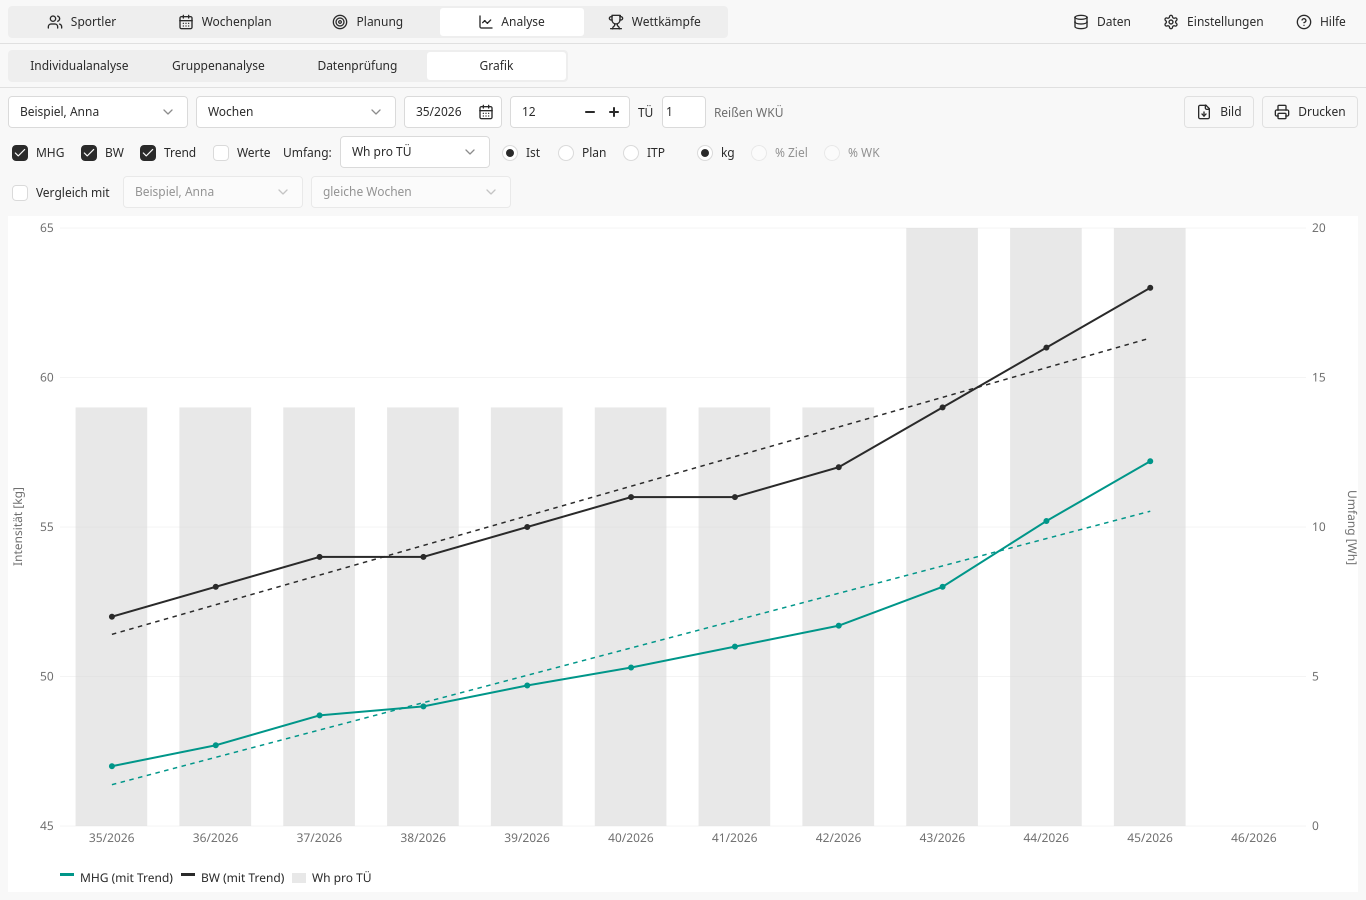
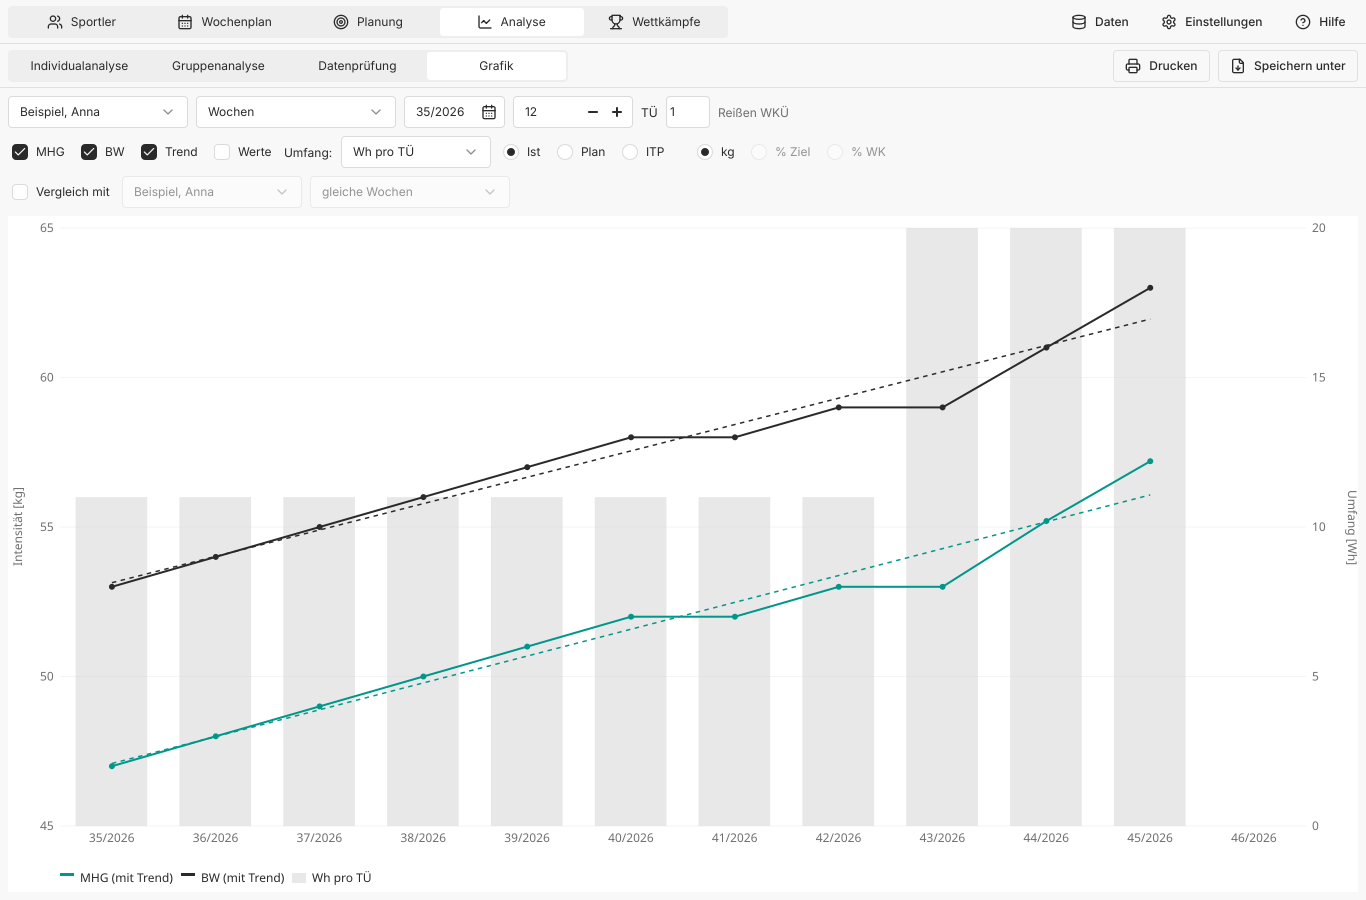
Describe what changed since 0.3.0; new screenshots
The README, the website and the help now tell of the analyses that
show at once and go to a spreadsheet (Kopieren, CSV), of paper size and
orientation for the week plan, and of editing a week's Zusatzinfo in
place; the code layout names the report code and the navigation
concept, and the roadmap ticks off what is done.

The screenshots show the program as it looks now, in its own font
(Inter), with the invented demo data plus a MAZ with an ITP, eleven
weeks of training and competitions over three years. The printed week
plan has not changed and stays.

diff --git a/pages/index.html b/pages/index.html
@@ -66,7 +66,7 @@
       <div>
         <svg class="icon" viewBox="0 0 24 24" fill="none" stroke="currentColor" stroke-width="2" stroke-linecap="round" stroke-linejoin="round" aria-hidden="true"><path d="M6 18H4a2 2 0 0 1-2-2v-5a2 2 0 0 1 2-2h16a2 2 0 0 1 2 2v5a2 2 0 0 1-2 2h-2" /> <path d="M6 9V3a1 1 0 0 1 1-1h10a1 1 0 0 1 1 1v6" /> <rect x="6" y="14" width="12" height="8" rx="1" /></svg>
         <h3>Drucken und PDF</h3>
-        <p>Der Wochenplan als übersichtliche Tabelle, auf Papier oder als PDF für die Sportler.</p>
+        <p>Der Wochenplan als übersichtliche Tabelle, auf Papier oder als PDF für die Sportler – in A4, A5 oder A3, hoch oder quer.</p>
       </div>
       <div>
         <svg class="icon" viewBox="0 0 24 24" fill="none" stroke="currentColor" stroke-width="2" stroke-linecap="round" stroke-linejoin="round" aria-hidden="true"><rect width="14" height="14" x="8" y="8" rx="2" ry="2" /> <path d="M4 16c-1.1 0-2-.9-2-2V4c0-1.1.9-2 2-2h10c1.1 0 2 .9 2 2" /></svg>
@@ -91,7 +91,7 @@
       <div>
         <svg class="icon" viewBox="0 0 24 24" fill="none" stroke="currentColor" stroke-width="2" stroke-linecap="round" stroke-linejoin="round" aria-hidden="true"><path d="M3 3v16a2 2 0 0 0 2 2h16" /> <path d="m19 9-5 5-4-4-3 3" /></svg>
         <h3>Analysen</h3>
-        <p>Abschnitts- und Gruppenanalyse, Trends und Grafiken – auf Papier oder als PDF.</p>
+        <p>Abschnitts- und Gruppenanalyse, Trends und Grafiken – auf Papier, als PDF oder für die Tabellenkalkulation.</p>
       </div>
     </div>
 
@@ -120,7 +120,8 @@
       <div>
         <h3>Sehen, was das Training bewirkt</h3>
         <p>Mittleres Hantelgewicht und Bestwert je Übung mit Trend, dazu der Umfang – für einen
-          Sportler, einen Makrozyklus oder im Vergleich.</p>
+          Sportler, einen Makrozyklus oder im Vergleich. Die Tabellen der Analysen stehen sofort da,
+          folgen jeder Einstellung und lassen sich in Excel oder LibreOffice übernehmen.</p>
       </div>
       <img src="analysis.png" width="1366" height="900" loading="lazy"
            alt="Grafik: MHG und BW einer Übung über zwölf Wochen mit Trendlinien und Umfang">

diff --git a/qml/HelpDialog.qml b/qml/HelpDialog.qml
@@ -136,7 +136,9 @@ AppDialog {
                           + "<b>Planung:</b> MAZ anlegen, Rahmenorientierung (RO) in Prozent eintragen und daraus den "
                           + "individuellen Trainingsplan (ITP) berechnen.<br><br>"
                           + "<b>Analyse:</b> Abschnittsanalyse über beliebige Wochen oder eine MAZ, Grafik je Übung, "
-                          + "Belastungstabellen. Grafiken zeigen beim Darüberfahren die Werte und lassen sich als Bild speichern.<br><br>"
+                          + "Belastungstabellen. Die Tabellen stehen sofort da und folgen den Einstellungen. „Kopieren“ "
+                          + "legt sie für eine Tabellenkalkulation in die Zwischenablage, „Speichern unter“ schreibt ein PDF "
+                          + "oder eine CSV-Datei. Grafiken zeigen beim Darüberfahren die Werte und lassen sich als Bild speichern.<br><br>"
                           + "<b>Wettkämpfe:</b> Versuche eintragen, einen Fehlversuch mit der Leertaste oder einem Rechtsklick im Feld als ungültig markieren (rot, durchgestrichen), und die Entwicklung als Grafik ansehen.<br><br>"
                           + "<b>Datensicherung:</b> Daten › Exportieren schreibt eine Datei im Format des alten Programms."
                 }

diff --git a/README.md b/README.md
@@ -49,7 +49,8 @@ updates and uninstalling.
 - **Wochenplan**: 7 days × 2 (optionally 3) sessions per athlete, plan or
   actual ("Ist"), week note and injured flag, K1–K7 weekly summary,
   copy/paste a whole week (also to another athlete), calendar to pick a
-  week, extra info per day (body weight, body fat, supplements).
+  week, extra info per day (body weight, body fat, supplements), the
+  week's entries edited in place and saved together.
 - **Session editor**: weight exercises (kg, reps per set "SG", sets "ANZ",
   failed attempts "UG" in actual weeks), general exercises as text with total
   reps, free text lines, times and a note. Live MHG/BW/WH/SG-ANZ for the
@@ -69,13 +70,17 @@ updates and uninstalling.
   with the athlete's targets), and a chart of ITP against plan or actual.
 - **Analyse**: section analysis (WH, MHG, BW, set size with totals and
   trends, in kg or percent of the targets, comparisons, all MAZ, reps per
-  weight), group analysis of a MAZ, data check, and charts.
+  weight), group analysis of a MAZ, data check, and charts. Reports show
+  at once and follow their settings and the data; *Kopieren* puts them on
+  the clipboard for a spreadsheet, *Speichern unter* saves a PDF or a CSV
+  for Excel and LibreOffice.
 - **Data**: import and export in the old program's format (everything,
   changes since a date including deletions, or one athlete's weeks).
 - **Print / PDF** of the week plan with the old print options (notation,
-  figures, notes, empty lines, fonts, margins, landscape, logo), and of
-  all analyses and charts; charts also as PNG images, with the values
-  shown on hover.
+  figures, notes, empty lines, fonts, paper A4, A5 or A3, portrait or
+  landscape, margins, logo), and of all analyses and charts, their tables
+  drawn like the old program's reports; charts also as PNG images, with
+  the values shown on hover.
 - **Everyday use**: keyboard shortcuts (arrow keys, Enter and Delete in
   the week grid, Ctrl+←/→ for weeks, Ctrl+C/V for sessions), undo and
   redo of every change to sessions, a right-click menu with "Ist = Plan",
@@ -163,7 +168,8 @@ To release: bump `project(... VERSION ...)` in `CMakeLists.txt`, wait for
 | `src/planning.*` | MAZ, framework plan, ITP, planned weight steps |
 | `src/analysis.*` | section analysis and load tables |
 | `src/weekreport.*` | printed / PDF week plan |
-| `src/store.*`, `src/planstore.*`, `src/analysisapi.*`, `src/itpmodel.*` | APIs and models for the QML user interface |
+| `src/report.*` | analysis reports: headings, notes and tables, printed and as PDF, as text and CSV |
+| `src/store.*`, `src/planstore.*`, `src/analysisapi.*`, `src/itpmodel.*`, `src/reportmodel.*` | APIs and models for the QML user interface |
 | `qml/` | user interface |
 | `style/` | the controls' style: `Primitives` (every colour and size once), `TokenInterface` (their roles per colour scheme), `Style` and `StyleCascade` (rules by state and part), and a `*Style` singleton per kind of control with its variants, e.g. `ButtonStyle.ghost` |
 | `tests/` | unit tests (`tst_core`) and UI tests (`tst_qml`) |
@@ -171,6 +177,7 @@ To release: bump `project(... VERSION ...)` in `CMakeLists.txt`, wait for
 | `fonts/`, `icons/` | Inter, JetBrains Mono and Lucide icons, built into the program |
 | `packaging/` | Debian package script |
 | `pages/` | website |
+| `docs/ROADMAP.md`, `docs/NAVIGATION.md` | what comes next, and the planned sidebar navigation |
 | `docs/screenshots/` | screenshots with invented demo data |
 | `.github/workflows/` | CI, nightly, release and website |
 

diff --git a/docs/ROADMAP.md b/docs/ROADMAP.md
@@ -38,6 +38,11 @@ No new data, every user benefits at once.
 - [x] **Help:** tooltips for WH, MHG, BW, SG/ANZ, UG, K1–K7; a short help
       page; a first-start dialog (import old data or try demo data, trainer
       name).
+- [x] **Analyses at once:** reports without a button to press, following
+      their settings; tables like the old program's reports, copied for a
+      spreadsheet or saved as CSV.
+- [x] **Paper and orientation** for the week plan: A4, A5 or A3, portrait
+      or landscape.
 - [ ] **One sidebar instead of two tab bars**, with an athlete and a MAZ
       picker as the headers of their views. See
       [NAVIGATION.md](NAVIGATION.md).
